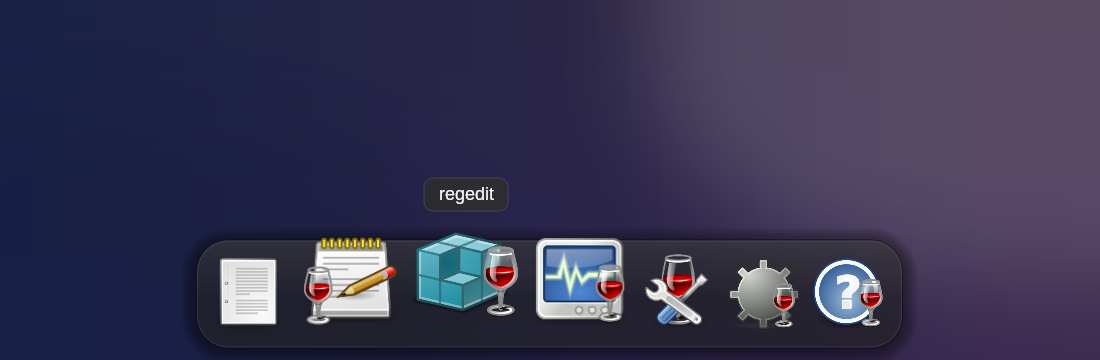
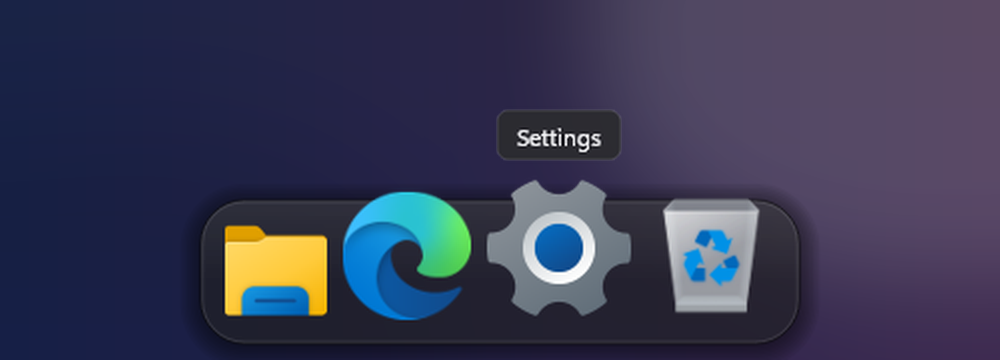
Docs: screenshots rendered on Windows; dashboard and keyboard notes
Claude-Session: https://claude.ai/code/session_019Ao12yCSRW24sXMUZ52P6L

Changed region(s): [[0.155, 0.4889, 0.837, 1.0], [0.496, 0.3056, 0.62, 0.4583], [0.186, 0.9472, 0.217, 0.9778]]

diff --git a/README.md b/README.md
@@ -16,9 +16,9 @@ taskbar away until you need it), and you control all of it from a dashboard.
 ![Berth dock, light theme](docs/dock-light.png)
 ![Berth dock, dark theme](docs/dock-dark.png)
 
-> **About these screenshots:** they were captured during development under Wine on Linux, so
-> the icons are Wine's stand-ins for system tools. On Windows 11 the dock shows your apps'
-> real icons. A screenshot from a Windows 11 PC will replace these once one is available.
+> **About these screenshots:** they're rendered by Berth itself on Windows (Server 2025, the
+> Windows 11 24H2 code base) in the automated build. The dock images are placed on a
+> sample background and enlarged 2×; the dashboard images are shown as drawn.
 
 ## Features
 
@@ -46,15 +46,20 @@ taskbar away until you need it), and you control all of it from a dashboard.
   dashboard. Berth can start automatically when you sign in to Windows; you choose this on
   first launch and can change it at any time.
 - **Berth Dashboard:** one window for every setting (General, Appearance, Behavior, Apps,
-  Updates, About). Changes apply instantly and are saved automatically.
+  Updates, About), designed like Windows 11 Settings, in light or dark with your accent
+  colour. Changes apply instantly and are saved automatically.
 - **One-click updates:** Dashboard > Updates > **Check for updates and install** downloads
   the latest release from this repository, verifies its checksum, and restarts Berth on
   the new version. Your settings are kept. Berth also shows a notification when a new
   version is out (you can turn this off).
 
 <p>
-  <img src="docs/dashboard-appearance.png" width="49%" alt="Berth Dashboard, Appearance page">
-  <img src="docs/dashboard-apps.png" width="49%" alt="Berth Dashboard, Apps page">
+  <img src="docs/dashboard-general-dark.png" width="49%" alt="Berth Dashboard, General page, dark theme">
+  <img src="docs/dashboard-appearance-light.png" width="49%" alt="Berth Dashboard, Appearance page, light theme">
+</p>
+<p>
+  <img src="docs/dashboard-apps-light.png" width="49%" alt="Berth Dashboard, Apps page">
+  <img src="docs/dashboard-add-apps-dark.png" width="49%" alt="Add apps panel">
 </p>
 
 Berth has no accounts, ads, telemetry, subscriptions or cloud features, and it never needs
@@ -127,10 +132,12 @@ are needed.
   remove it from the dock, or keep a running app in the dock.
 - **Right-click the dock background** (or left-click the tray icon) to open the
   dashboard, add an app, hide the dock, or quit.
-- **Add apps:** Dashboard > Apps > **Add app…** (lists everything in Start > All apps),
-  **Add file…**, **Add folder…**, or drag files, folders and shortcuts onto the dock.
-- **Reorder:** drag icons along the dock, or use **Move up / Move down** in the
-  dashboard. **Rename** changes the label shown on hover.
+- **Add apps:** Dashboard > Apps > **Add apps** (search and tick anything in Start > All
+  apps), **Add file**, **Add folder**, or drag files, folders and shortcuts onto the dock.
+- **Reorder, rename, remove:** drag icons along the dock, or use the arrow, pencil and bin
+  buttons next to each app on the dashboard's Apps page.
+- **Keyboard:** in the dashboard, Tab moves between controls, Space/Enter activate, arrow
+  keys change sliders and dropdowns, and Esc closes.
 - **Open the dashboard:** left-click the tray icon, choose **Open Dashboard…** from any
   Berth menu, or simply run `Berth.exe` again while Berth is already running.
 
@@ -298,8 +305,9 @@ This is the first release. Please read these before relying on it.
   without the system-wide notification that made Explorer take the space back.
   After a display change, Explorer may briefly take the strip back before Berth reclaims it.
 - **One dock, one display** at a time. Top-edge placement isn't offered.
-- The dashboard uses standard Windows controls in a light style, even when Windows is in
-  dark mode. The dock itself follows the dark theme.
+- The dashboard is drawn by Berth itself (only the search and rename boxes are standard
+  Windows controls), so screen readers can't yet describe its controls. Keyboard
+  navigation works.
 - Dragging items directly from the Start menu onto the dock isn't supported. Use
   **Add app…** instead.
 - Windows won't let Berth receive files dragged from apps running as administrator.

diff --git a/CONTRIBUTING.md b/CONTRIBUTING.md
@@ -22,8 +22,9 @@ relevant part of `%LOCALAPPDATA%\Berth\berth.log` after checking it for private 
 |---|---|
 | `src/main.rs` | Start-up, single instance, hidden controller window, menus, actions, message loop |
 | `src/dock.rs` | The dock window: geometry, layout, hit-testing, animation, drawing |
-| `src/dashboard.rs` | The Berth Dashboard window (all settings) |
-| `src/picker.rs` | "Add apps" window and the file/folder picker |
+| `src/dashboard.rs` | The Berth Dashboard window (all settings, Add apps panel) |
+| `src/widgets.rs` | Small immediate-mode widget toolkit (Windows 11 style) used by the dashboard |
+| `src/picker.rs` | Windows file/folder picker |
 | `src/apps.rs` | Launching, window enumeration and matching, installed-app list |
 | `src/icons.rs` | Shell icon loading and caching |
 | `src/config.rs` | Settings model, validation, load/save |
@@ -53,6 +54,7 @@ On Windows (recommended):
 cargo build --release
 cargo test
 .\target\release\Berth.exe --self-test report.txt
+.\target\release\Berth.exe --render-dashboard out   # every dashboard page as PNG
 ```
 
 `cargo clippy` and `cargo fmt` are appreciated before sending a pull request.
